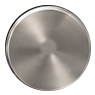
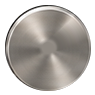
Correctif : pointeurs d'origine restés fixes (FET-76 Release, Opto-3A Mix, Pro-CX HPF)
Claude-Session: https://claude.ai/code/session_01R2DXLuP4rDH7b5WwuhM8FX

Changed region(s): [[0.6316, 0.1474, 0.8632, 0.3579]]

diff --git a/tools/facades/clean.py b/tools/facades/clean.py
@@ -69,7 +69,8 @@ def knob_sprite(img, cx, cy, rs, rptr, bands=1, erase_at=None):
     if bands == 0:
         pass
     elif erase_at:
-        pol = remove_band_at(pol, NA, sc, erase_at[0], erase_at[1])
+        for i in range(0, len(erase_at), 2):
+            pol = remove_band_at(pol, NA, sc, erase_at[i], erase_at[i + 1])
     else:
         for _ in range(bands):
             pol = remove_band(pol, NA, sc, rptr)
